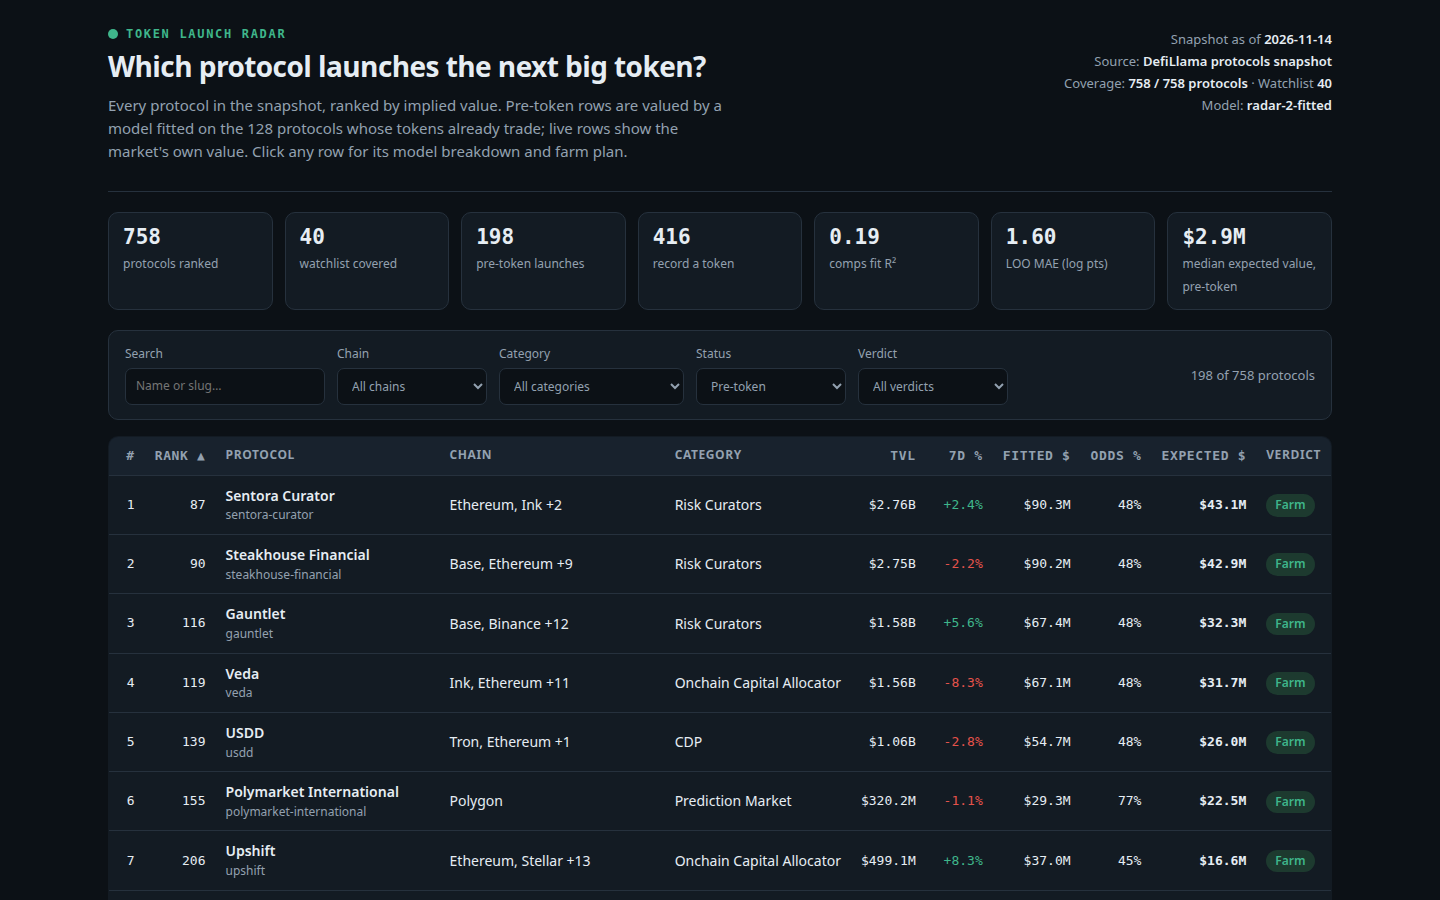
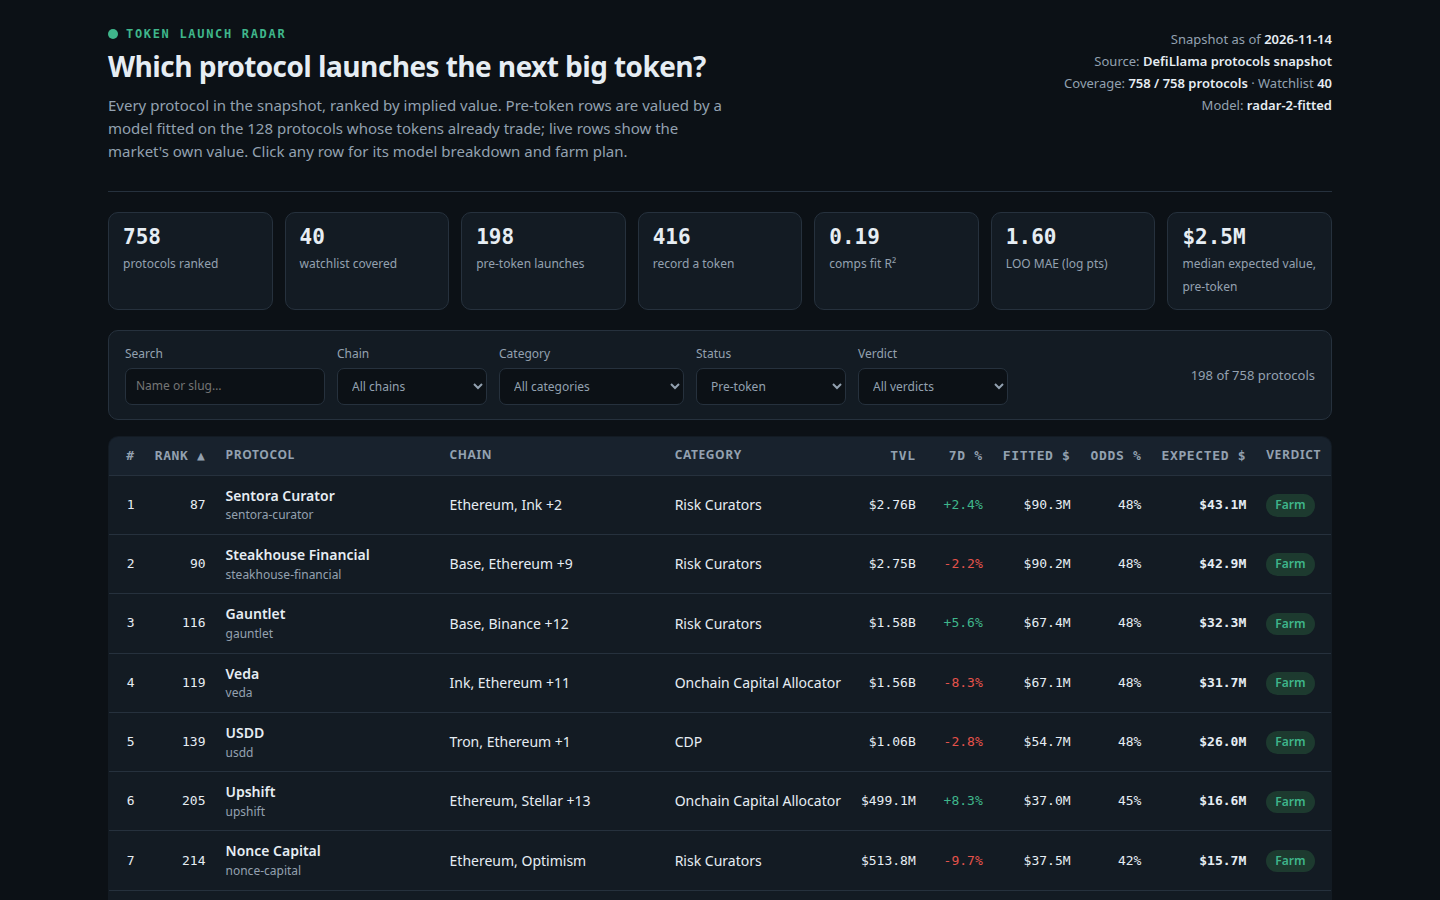
Fix review findings: cap odds lookup age at 2y (cohort effect), fix pooled-odds mismatch, hash whitelist, CDP/basis farm steps

diff --git a/dashboard/app.js b/dashboard/app.js
@@ -55,7 +55,18 @@
         cells.push({ ageLo: AGE_BANDS[ai][0], ageHi: AGE_BANDS[ai][1], tvlLo: TVL_BANDS[ti][0], tvlHi: TVL_BANDS[ti][1], n: n, k: k, rate: Math.min(0.95, Math.max(0.05, (k + 2 * global) / (n + 2))) });
       }
     }
-    return { global: global, cells: cells };
+    // Pooled by TVL band across ALL ages (age-known and age-unknown rows alike): the fallback for
+    // protocols whose age is unknown. This mirrors the builder exactly — pooling age-known cells
+    // only would disagree with the board on those rows.
+    var tvlPooled = [];
+    for (ti = 0; ti < TVL_BANDS.length; ti++) {
+      n = 0; k = 0;
+      rs.forEach(function (row) {
+        if (row.tvl_usd >= TVL_BANDS[ti][0] && row.tvl_usd < TVL_BANDS[ti][1]) { n++; if (hasToken(row)) k++; }
+      });
+      tvlPooled.push({ tvlLo: TVL_BANDS[ti][0], tvlHi: TVL_BANDS[ti][1], n: n, k: k, rate: Math.round(Math.min(0.95, Math.max(0.05, (k + 2 * global) / (n + 2))) * 1e4) / 1e4 });
+    }
+    return { global: global, cells: cells, tvlPooled: tvlPooled };
   }
   function oddsCellLabel(cell) {
     var a = cell.ageHi === Infinity ? cell.ageLo + 'd+' : cell.ageLo + '–' + cell.ageHi + 'd';
@@ -65,15 +76,18 @@
   function oddsFor(r, table) {
     var age = r.age_days;
     if (age === null) {
-      var pooled = table.cells.filter(function (c) { return r.tvl_usd >= c.tvlLo && r.tvl_usd < c.tvlHi; });
-      var n = 0, k = 0;
-      pooled.forEach(function (c) { n += c.n; k += c.k; });
-      return { odds: Math.min(0.95, Math.max(0.05, (k + 2 * table.global) / (n + 2))), cell: 'age unknown — TVL band only' };
+      var pooled = null;
+      table.tvlPooled.forEach(function (p) { if (r.tvl_usd >= p.tvlLo && r.tvl_usd < p.tvlHi) pooled = p; });
+      return { odds: pooled ? pooled.rate : table.global, cell: 'age unknown — TVL band only' };
     }
+    // Lookup age is capped at 729 days so it lands in the 1–2y band: the peer share rises with age,
+    // but that rise is a cohort effect, not evidence that a long-tokenless protocol is likelier to
+    // launch tomorrow. Bands are half-open [lo, hi), so 730 would land in 2–3y.
+    var lookupAge = Math.min(age, 729);
     var cell = null;
-    table.cells.forEach(function (c) { if (age >= c.ageLo && age < c.ageHi && r.tvl_usd >= c.tvlLo && r.tvl_usd < c.tvlHi) cell = c; });
+    table.cells.forEach(function (c) { if (lookupAge >= c.ageLo && lookupAge < c.ageHi && r.tvl_usd >= c.tvlLo && r.tvl_usd < c.tvlHi) cell = c; });
     if (!cell) return { odds: table.global, cell: 'no cell' };
-    return { odds: cell.rate, cell: oddsCellLabel(cell) + ' (n=' + cell.n + ', ' + cell.k + ' with token)' };
+    return { odds: cell.rate, cell: oddsCellLabel(cell) + ' (n=' + cell.n + ', ' + cell.k + ' with token)' + (age > 729 ? ' · age capped at 2y' : '') };
   }
 
   // ---- formatting --------------------------------------------------------------------
@@ -116,7 +130,8 @@
   var fit = fitComps(rows);
   var odds = oddsTable(rows);
   var fitMatch = Math.abs(fit.a - D.comps.a) < 0.0005 && Math.abs(fit.b - D.comps.b) < 0.0005;
-  var oddsMatch = odds.cells.every(function (c, i) { return Math.abs(c.rate - D.odds_cells[i].rate) < 0.0005; });
+  var oddsMatch = odds.cells.every(function (c, i) { return Math.abs(c.rate - D.odds_cells[i].rate) < 0.0005; }) &&
+    odds.tvlPooled.every(function (p, i) { return Math.abs(p.rate - D.odds_tvl_pooled[i].rate) < 0.0005; });
   $('top-meta').innerHTML =
     '<div>Snapshot as of <b>' + esc(D.as_of) + '</b></div>' +
     '<div>Source: <b>DefiLlama protocols snapshot</b></div>' +
@@ -130,7 +145,7 @@
   ];
   $('kpis').innerHTML = kpis.map(function (k) { return '<div class="kpi"><b>' + k[0] + '</b><span>' + k[1] + '</span></div>'; }).join('');
   $('modelcheck').textContent = fitMatch && oddsMatch
-    ? 'Model check: recomputed in this page from the ' + rows.length + ' rows below, the fit matches the board — a = ' + fit.a.toFixed(3) + ', b = ' + fit.b.toFixed(3) + ', R² = ' + fit.r2.toFixed(3) + ', LOO MAE = ' + fit.looMae.toFixed(3) + ' log points; the odds table matches on all 12 cells.'
+    ? 'Model check: recomputed in this page from the ' + rows.length + ' rows below, the fit matches the board — a = ' + fit.a.toFixed(3) + ', b = ' + fit.b.toFixed(3) + ', R² = ' + fit.r2.toFixed(3) + ', LOO MAE = ' + fit.looMae.toFixed(3) + ' log points; the odds table matches on all 12 cells and the 3 pooled rates.'
     : 'Model check: recomputed fit differs from the board — do not trust the values above until this is fixed.';
   $('fittext').textContent = 'log(market cap) = ' + D.comps.a + ' + ' + D.comps.b + ' × log(TVL), fitted by least squares on the ' + D.comps.n + ' protocols whose tokens trade (R² = ' + D.comps.r2 + ', residual SD = ' + D.comps.resid_sd + ', leave-one-out MAE = ' + D.comps.loo_mae + ' log points). Fitted launch value = exp(a + b × ln(TVL)). Pre-token expected value = fitted value × token odds × growth tilt.';
   var oddsHtml = '<tr><th></th><th>$5M–$100M</th><th>$100M–$1B</th><th>$1B+</th></tr>';
@@ -288,7 +303,7 @@
     var h = location.hash.replace(/^#/, '');
     if (!h) return;
     var p = new URLSearchParams(h);
-    if (p.get('status') !== null) { state.status = p.get('status') || ''; $('status').value = state.status; }
+    if (p.get('status') !== null) { var st = p.get('status') || ''; state.status = ['pre-token', 'live', 'live-unpriced', 'not-a-launch', ''].indexOf(st) >= 0 ? st : 'pre-token'; $('status').value = state.status; }
     if (p.get('chain')) { state.chain = p.get('chain'); chainSel.value = state.chain; }
     if (p.get('category')) { state.cat = p.get('category'); catSel.value = state.cat; }
     if (p.get('q')) { state.q = p.get('q'); $('q').value = state.q; }

diff --git a/lib/model.ts b/lib/model.ts
@@ -21,6 +21,12 @@
 //   token odds: empirical table, age band x TVL band, share of protocols in the cell that record a
 //     token, Laplace-smoothed toward the global rate: rate = (k + 2*0.55) / (n + 2), clamped [0.05, 0.95].
 //     Age unknown (listed_at null, 113 protocols): the TVL band's pooled rate across all ages.
+//     Lookup age is capped at 729 days so the lookup lands in the 1–2y band (the bands are
+//     half-open [lo, hi), so a cap of 730 would land in the 2–3y band instead): the peer share rises
+//     with age, but that rise is a cohort effect — protocols listed in the 2021 launch wave record
+//     tokens far more often than recent ones — not evidence that a protocol which has run 3 years
+//     tokenless is likelier to launch tomorrow. A 4-year-old tokenless protocol is scored with the
+//     1–2y band, never the 3y+ band.
 //   growth tilt: mult = 1 + clamp(change_7d, -60, 120) * 0.001  (range 0.94-1.12, a mild prior)
 //   pre-token:  implied = round(fitted * odds * tilt)   (expected value of a launch)
 //   live:       implied = mcap_usd
@@ -68,6 +74,8 @@ export const MODEL_VERSION = 'radar-2-fitted';
 
 /** Age bands (days) and TVL bands (USD) of the token-odds table. */
 export const AGE_BANDS: Array<[number, number]> = [[0, 365], [365, 730], [730, 1095], [1095, Infinity]];
+/** The odds lookup never uses an age band older than 1–2y (bands are half-open, so 729 lands in it). */
+export const ODDS_AGE_CAP_DAYS = 729;
 export const TVL_BANDS: Array<[number, number]> = [[5_000_000, 100_000_000], [100_000_000, 1_000_000_000], [1_000_000_000, Infinity]];
 export const GLOBAL_RATE_PRIOR = 0.55;
 export const PRIOR_WEIGHT = 2;
@@ -335,13 +343,17 @@ export function tokenOdds(p: SnapshotProtocol, asOf: string, table: { cells: Odd
     const pooled = table.tvlPooled.find((c) => inBand(p.tvl_usd, c.tvl_lo, c.tvl_hi ?? Infinity));
     return { odds: pooled?.rate ?? 0.55, cell: 'age unknown — TVL band only' };
   }
+  // Lookup age is capped at 729 days so it lands in the 1–2y band: the peer share rises with age,
+  // but that rise is a cohort effect, not evidence that a long-tokenless protocol is likelier to
+  // launch tomorrow (see header). Bands are half-open [lo, hi), so 730 would land in 2–3y.
+  const lookupAge = Math.min(age, ODDS_AGE_CAP_DAYS);
   const cell = table.cells.find(
-    (c) => inBand(age, c.age_lo, c.age_hi ?? Infinity) && inBand(p.tvl_usd, c.tvl_lo, c.tvl_hi ?? Infinity),
+    (c) => inBand(lookupAge, c.age_lo, c.age_hi ?? Infinity) && inBand(p.tvl_usd, c.tvl_lo, c.tvl_hi ?? Infinity),
   );
   if (!cell) return { odds: 0.55, cell: 'no cell' };
   const ageLabel = cell.age_hi === null ? `${cell.age_lo}d+` : `${cell.age_lo}–${cell.age_hi}d`;
   const tvlLabel = cell.tvl_hi === null ? `$${Math.round(cell.tvl_lo / 1e9)}B+` : `$${Math.round(cell.tvl_lo / 1e6)}M–$${Math.round(cell.tvl_hi / 1e6)}M`;
-  return { odds: cell.rate, cell: `${ageLabel} × ${tvlLabel} (n=${cell.n}, ${cell.k} with token)` };
+  return { odds: cell.rate, cell: `${ageLabel} × ${tvlLabel} (n=${cell.n}, ${cell.k} with token)${age > ODDS_AGE_CAP_DAYS ? ' · age capped at 2y' : ''}` };
 }
 
 /** The growth tilt: a mild prior, at most ±12%. */
@@ -397,7 +409,10 @@ function money(n: number): string {
 function actionFor(p: SnapshotProtocol, capital: number, chain: string): string {
   const c = (p.category ?? '').toLowerCase();
   const name = p.name;
-  if (c.includes('lend') || c.includes('cdp') || c.includes('collateral')) return `Supply ${money(capital)} of USDC to ${name} on ${chain} as a lender and keep the deposit open.`;
+  if (c.includes('cdp')) return `Lock ${money(capital)} of collateral in ${name} on ${chain} to mint its stable asset and keep the position open.`;
+  if (c.includes('lend') || c.includes('collateral')) return `Supply ${money(capital)} of USDC to ${name} on ${chain} as a lender and keep the deposit open.`;
+  if (c.includes('basis')) return `Deposit ${money(capital)} of USDC into ${name}'s delta-neutral basis position on ${chain}, holding the spot leg and the short hedge.`;
+  if (c.includes('liquidity manager')) return `Deposit ${money(capital)} of USDC into a ${name}-managed liquidity position on ${chain} and keep it open.`;
   if (c.includes('dex') || c.includes('yield') || c.includes('leveraged farm') || c.includes('farm')) return `Provide ${money(capital)} of liquidity to ${name}'s main pool on ${chain} and keep the position open.`;
   if (c.includes('bridge')) return `Bridge ${money(capital)} of USDC to ${chain} through ${name} and use the bridged funds in its app.`;
   if (c.includes('staking') || c.includes('restak')) return `Stake ${money(capital)} of the chain's staking asset through ${name} on ${chain} and keep the receipt token.`;

diff --git a/dashboard/index.html b/dashboard/index.html
@@ -80,7 +80,10 @@
       <div>
         <h3>2 · Token odds</h3>
         <p>Share of protocols in each age × TVL cell that record a token, smoothed toward the global rate.
-        Older, larger protocols are more likely to record one.</p>
+        The table shows the peer shares as measured — but the lookup caps age at 2 years: the share keeps
+        rising with age, yet that rise is a cohort effect (protocols listed in the 2021 launch wave record
+        tokens far more often than recent ones), not evidence that a protocol which has run 3 years without
+        a token is more likely to launch tomorrow. No row is ever scored with the 3y+ band.</p>
         <table class="odds" id="oddstable"></table>
       </div>
       <div>
